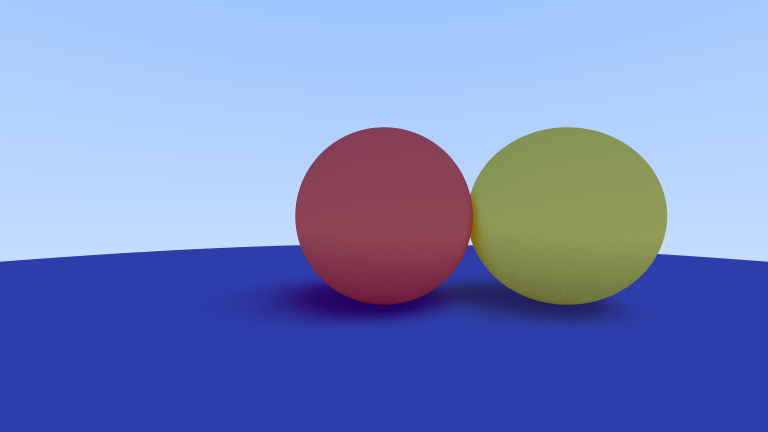
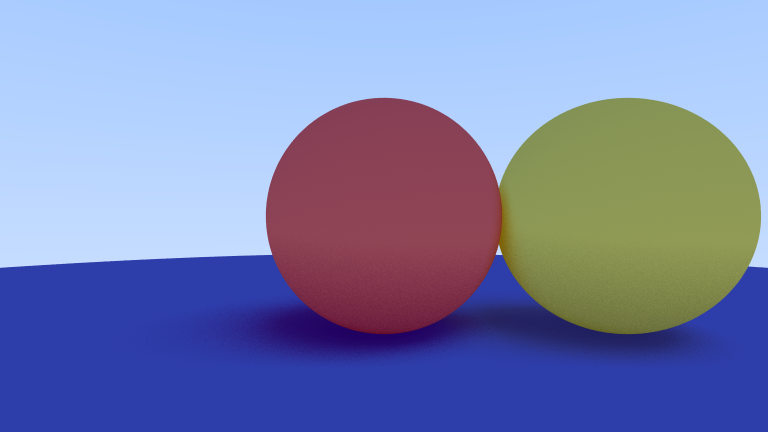
refactor + correction on fov

Changed region(s): [[0.0, 0.2106, 1.0, 0.8426]]

diff --git a/src/image/ray/vec3.rs b/src/image/ray/vec3.rs
@@ -6,9 +6,9 @@ use std::ops::{Add, BitXor, Div, Mul, Neg, Sub};
 
 #[derive(Deserialize, Copy, Clone)]
 pub struct Vector {
-    pub x: f64,
-    pub y: f64,
-    pub z: f64,
+    x: f64,
+    y: f64,
+    z: f64,
 }
 
 pub type Location = Vector;
@@ -29,8 +29,7 @@ impl Vector {
     }
 
     pub fn as_unit_vector(&self) -> UnitVector {
-        let k = 1.0 / self.length();
-        UnitVector::new(k * self.x, k * self.y, k * self.z)
+        UnitVector::new(self.x, self.y, self.z)
     }
 
     pub fn length(&self) -> f64 {
@@ -106,8 +105,7 @@ impl UnitVector {
     }
 
     pub fn rot(self, axis: UnitVector, angle: f64) -> Self {
-        let c = angle.cos();
-        (c * self + (1.0 - c) * (self * axis) * axis + angle.sin() * (axis ^ self)).as_unit_vector()
+        self.as_vector().rot(axis, angle).as_unit_vector()
     }
 
     pub fn random_on_unit_sphere() -> Self {
@@ -115,52 +113,39 @@ impl UnitVector {
     }
 }
 
+fn parse_vector_arg(value: &str) -> Result<(f64, f64, f64), String> {
+    let t: Vec<&str> = value
+        .trim_matches(|p| p == '(' || p == ')')
+        .split(',')
+        .collect();
+    let x;
+    let y;
+    let z;
+    match t[0].parse::<f64>() {
+        Ok(f) => x = f,
+        Err(e) => return Err(format!("{} for x", e)),
+    }
+    match t[1].parse::<f64>() {
+        Ok(f) => y = f,
+        Err(e) => return Err(format!("{} for y", e)),
+    }
+    match t[2].parse::<f64>() {
+        Ok(f) => z = f,
+        Err(e) => return Err(format!("{} for z", e)),
+    }
+    Ok((x, y, z))
+}
+
 impl FromArgValue for Vector {
     fn from_arg_value(value: &str) -> Result<Self, String> {
-        let t: Vec<&str> = value
-            .trim_matches(|p| p == '(' || p == ')')
-            .split(',')
-            .collect();
-        let x;
-        let y;
-        let z;
-        match t[0].parse::<f64>() {
-            Ok(f) => x = f,
-            Err(e) => return Err(format!("{} for x", e)),
-        }
-        match t[1].parse::<f64>() {
-            Ok(f) => y = f,
-            Err(e) => return Err(format!("{} for y", e)),
-        }
-        match t[2].parse::<f64>() {
-            Ok(f) => z = f,
-            Err(e) => return Err(format!("{} for z", e)),
-        }
+        let (x, y, z) = parse_vector_arg(value)?;
         Ok(Vector::new(x, y, z))
     }
 }
 
 impl FromArgValue for UnitVector {
     fn from_arg_value(value: &str) -> Result<Self, String> {
-        let t: Vec<&str> = value
-            .trim_matches(|p| p == '(' || p == ')')
-            .split(',')
-            .collect();
-        let x;
-        let y;
-        let z;
-        match t[0].parse::<f64>() {
-            Ok(f) => x = f,
-            Err(e) => return Err(format!("{} for x", e)),
-        }
-        match t[1].parse::<f64>() {
-            Ok(f) => y = f,
-            Err(e) => return Err(format!("{} for y", e)),
-        }
-        match t[2].parse::<f64>() {
-            Ok(f) => z = f,
-            Err(e) => return Err(format!("{} for z", e)),
-        }
+        let (x, y, z) = parse_vector_arg(value)?;
         Ok(UnitVector::new(x, y, z))
     }
 }

diff --git a/src/image.rs b/src/image.rs
@@ -37,11 +37,11 @@ impl Viewport {
         fov: f64,
     ) -> Viewport {
         let center = location + direction;
-        let ar = (width as f64) / (height as f64);
-        let mut hor = direction.rot(UnitDirection::new(0.0, 1.0, 0.0), PI / 2.0);
+        let ar = width as f64 / height as f64;
+        let mut hor = direction.rot(UnitDirection::new(0.0, 1.0, 0.0), -PI / 2.0);
         hor.set_y(0.0);
         let ver = (direction ^ -hor).as_unit_vector();
-        let half_width = (fov / 2.0).tan();
+        let half_width = (fov * PI / 360.0).tan();
         let half_height = half_width / ar;
         let corner = center - half_width * hor + half_height * ver;
         Viewport {

diff --git a/src/image/ray.rs b/src/image/ray.rs
@@ -9,15 +9,15 @@ use vec3::{Location, UnitDirection};
 #[derive(Deserialize)]
 pub struct Sphere {
     pub center: Location,
-    pub radius: f64,
+    radius: f64,
     pub color: Color,
 }
 
 pub struct Ray {
-    pub location: Location,
-    pub direction: UnitDirection,
+    location: Location,
+    direction: UnitDirection,
     pub range: f64,
-    pub ttl: u8,
+    ttl: u8,
 }
 
 pub enum Background {
